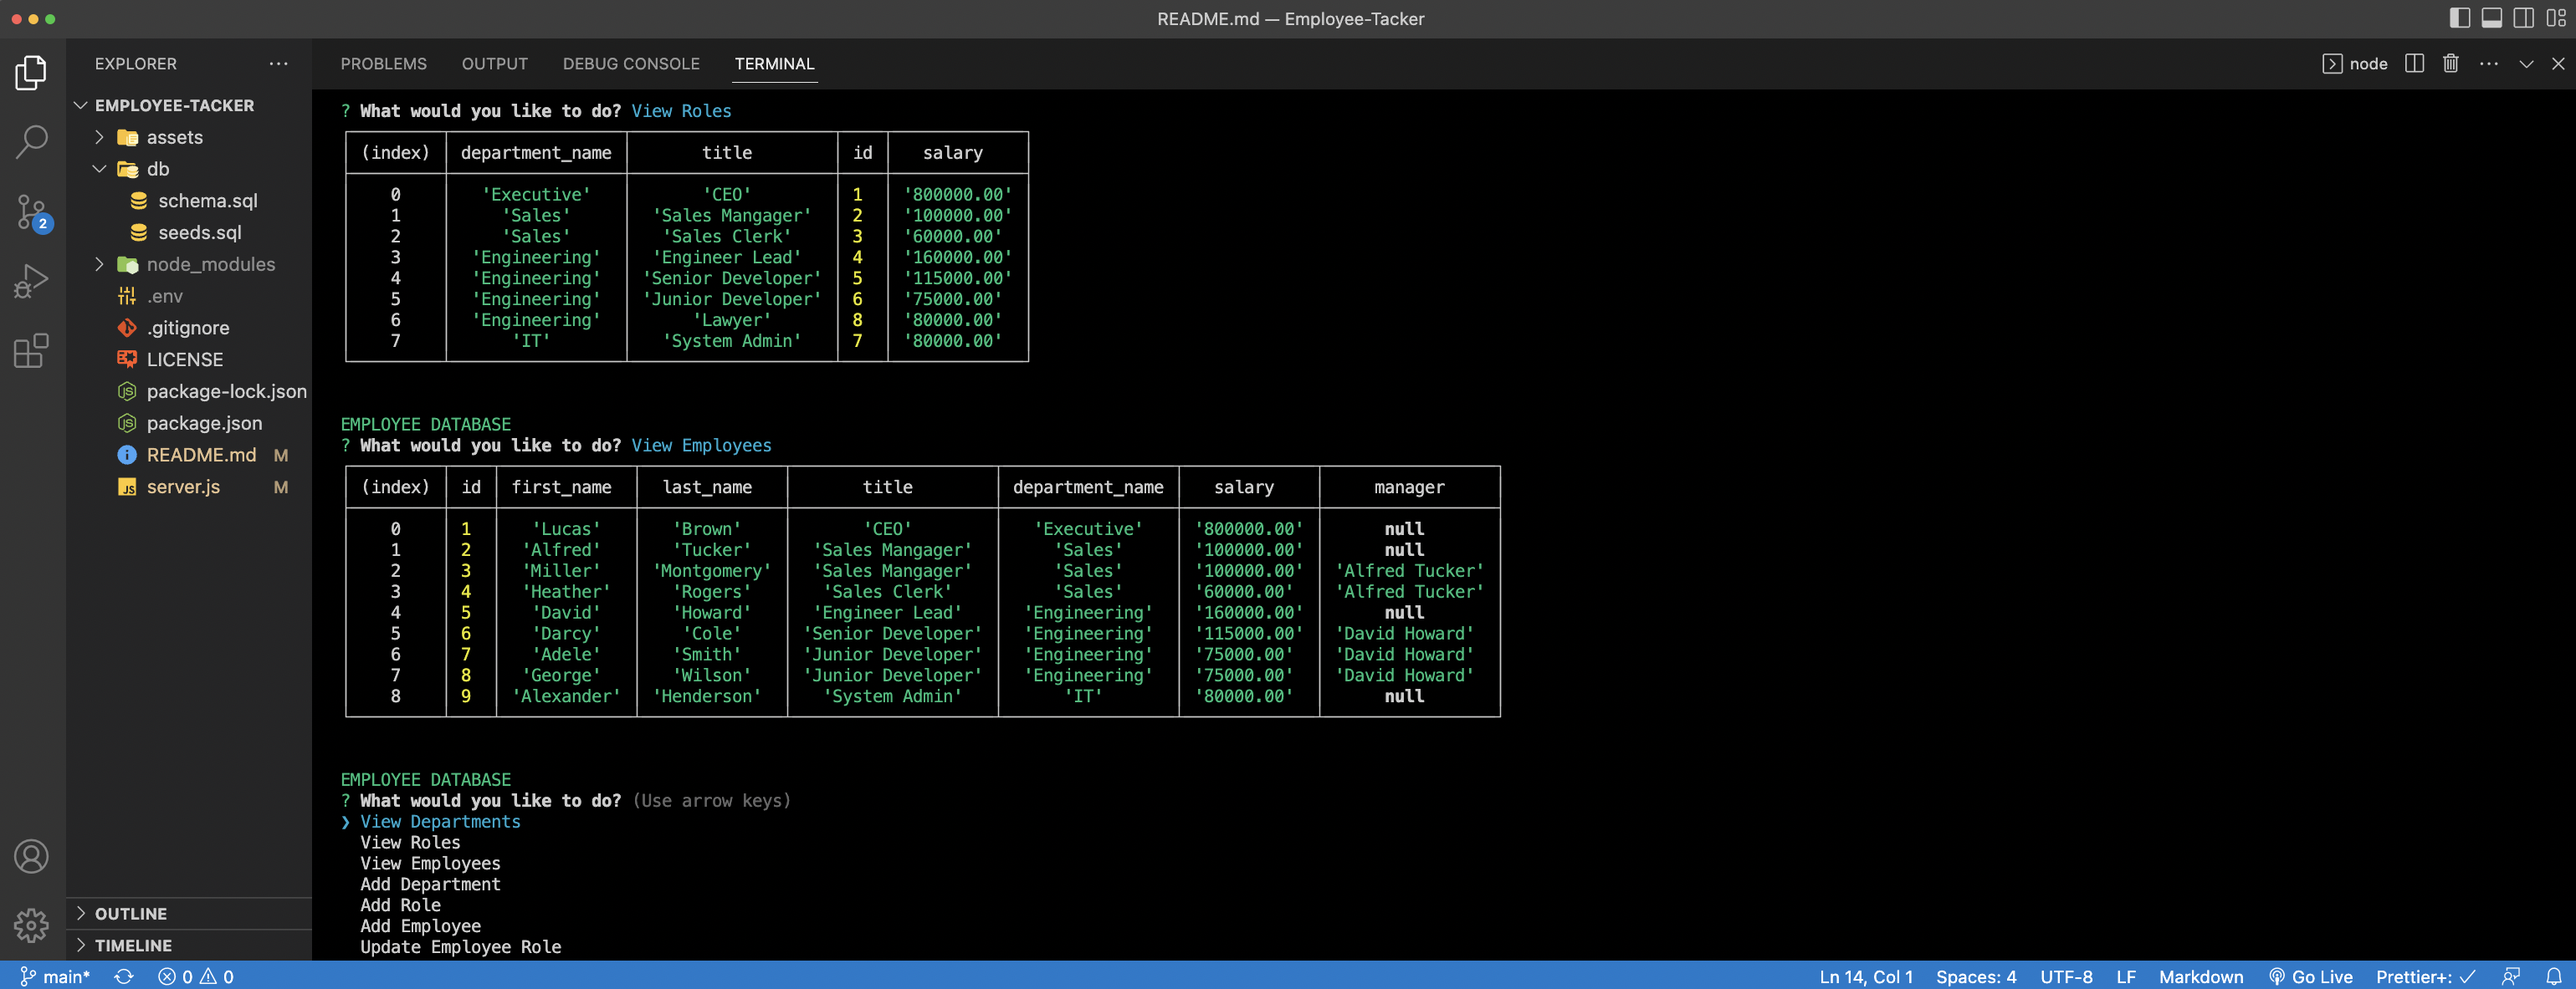
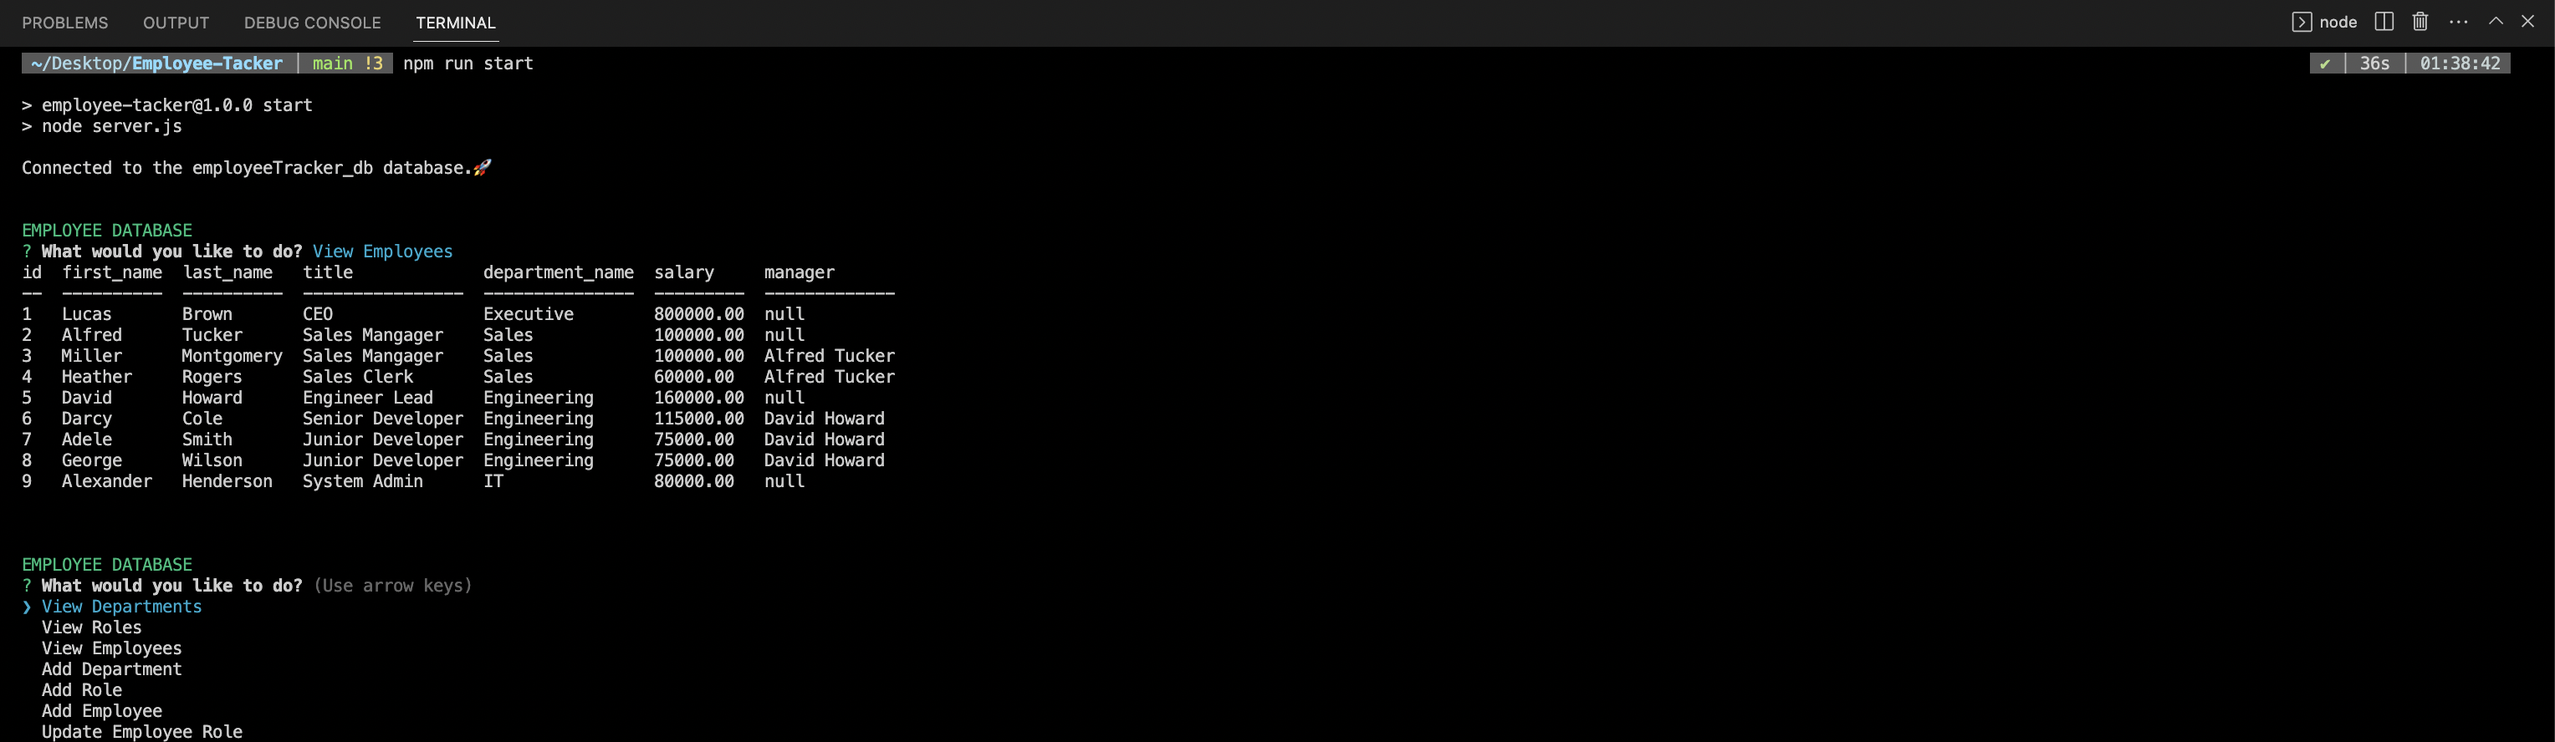
finale fixes

Changed region(s): [[0.0, 0.0, 1.0, 1.0]]

diff --git a/server.js b/server.js
@@ -1,6 +1,8 @@
 const mysql = require("mysql2");
 const inquirer = require("inquirer");
 
+const cTable = require("console.table");
+
 // const PORT = process.env.PORT || 3001;
 
 const db = mysql.createConnection(
